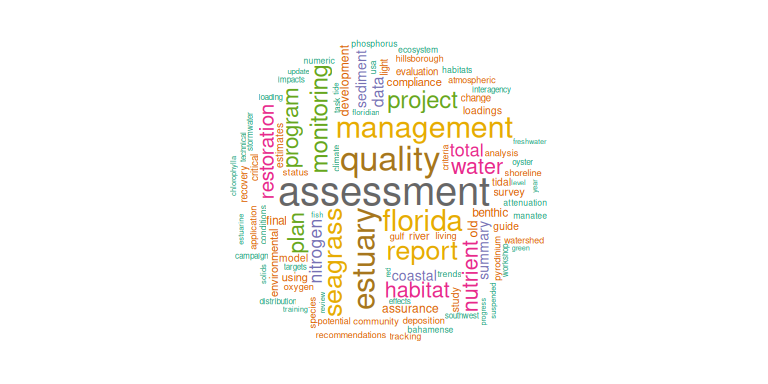
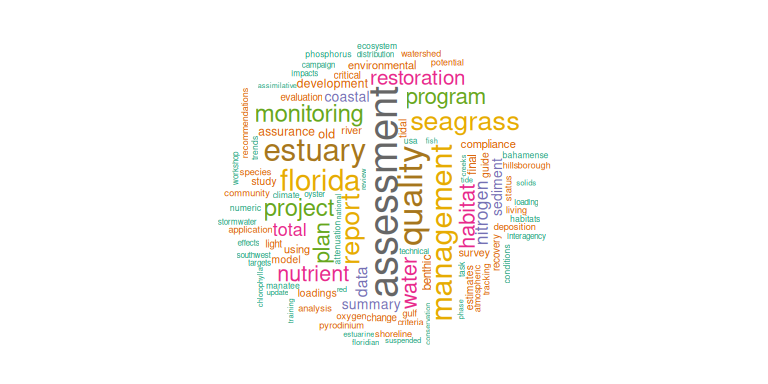
Re-build README and index

Changed region(s): [[0.2812, 0.0938, 0.7188, 0.9062]]

diff --git a/allindex.html b/allindex.html
@@ -376,7 +376,7 @@ educational</h1>
 </div>
 
 
-<p>Created 2026-07-11, .bib file <a href="https://github.com/tbep-tech/tbep-refs/blob/master/allbibs.bib">here</a></p>
+<p>Created 2026-07-12, .bib file <a href="https://github.com/tbep-tech/tbep-refs/blob/master/allbibs.bib">here</a></p>
 <div id="refs" class="references csl-bib-body">
 <div id="ref-edu1726" class="csl-entry">
 <div class="csl-left-margin">1. </div><div class="csl-right-inline">E.

diff --git a/eduindex.html b/eduindex.html
@@ -375,7 +375,7 @@ display: none;
 </div>
 
 
-<p>Created 2026-07-11, .bib file <a href="https://github.com/tbep-tech/tbep-refs/blob/master/edubibs.bib">here</a></p>
+<p>Created 2026-07-12, .bib file <a href="https://github.com/tbep-tech/tbep-refs/blob/master/edubibs.bib">here</a></p>
 <div id="refs" class="references csl-bib-body">
 <div id="ref-edu1726" class="csl-entry">
 <div class="csl-left-margin">1. </div><div class="csl-right-inline">E.

diff --git a/techindex.html b/techindex.html
@@ -375,7 +375,7 @@ display: none;
 </div>
 
 
-<p>Created 2026-07-11, .bib file <a href="https://github.com/tbep-tech/tbep-refs/blob/master/techbibs.bib">here</a></p>
+<p>Created 2026-07-12, .bib file <a href="https://github.com/tbep-tech/tbep-refs/blob/master/techbibs.bib">here</a></p>
 <div id="refs" class="references csl-bib-body">
 <div id="ref-tbep1626" class="csl-entry">
 <div class="csl-left-margin">1. </div><div class="csl-right-inline">K.